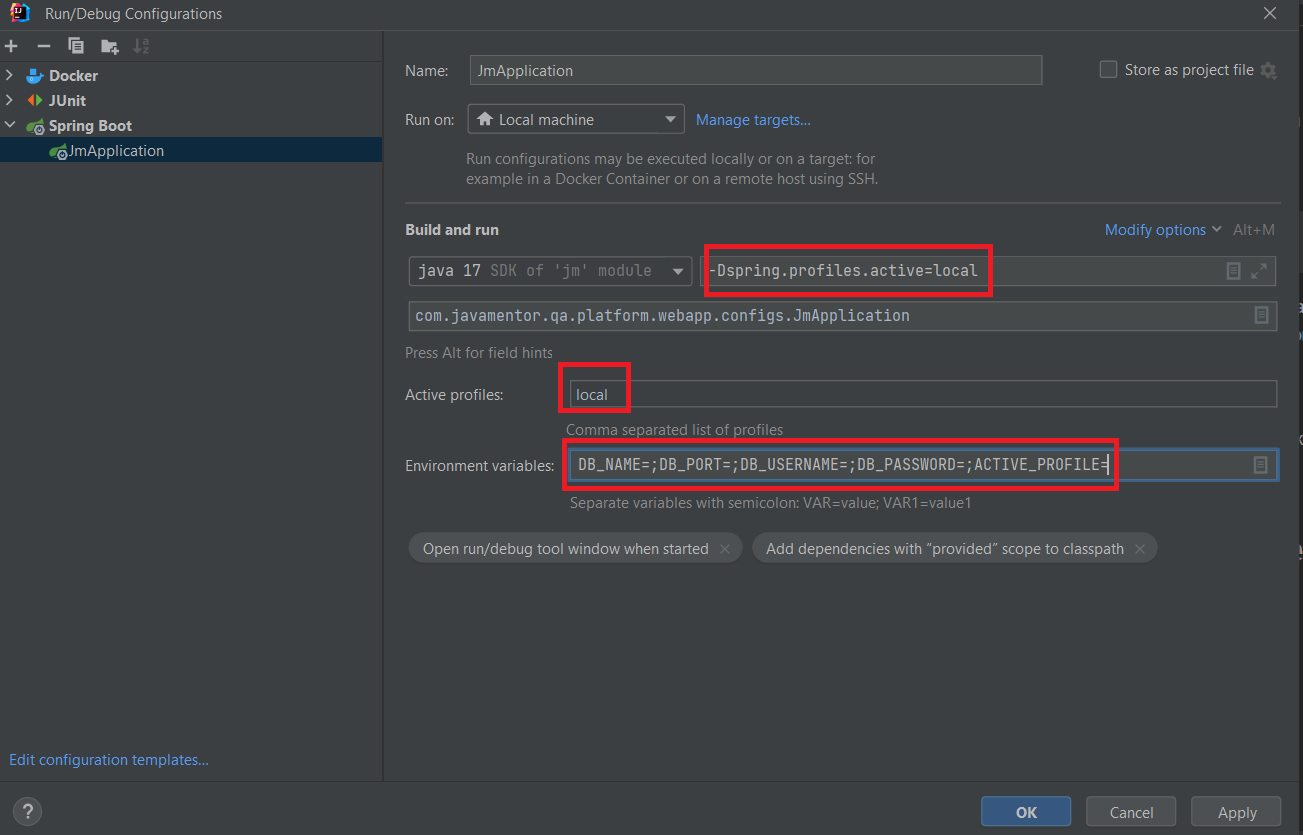
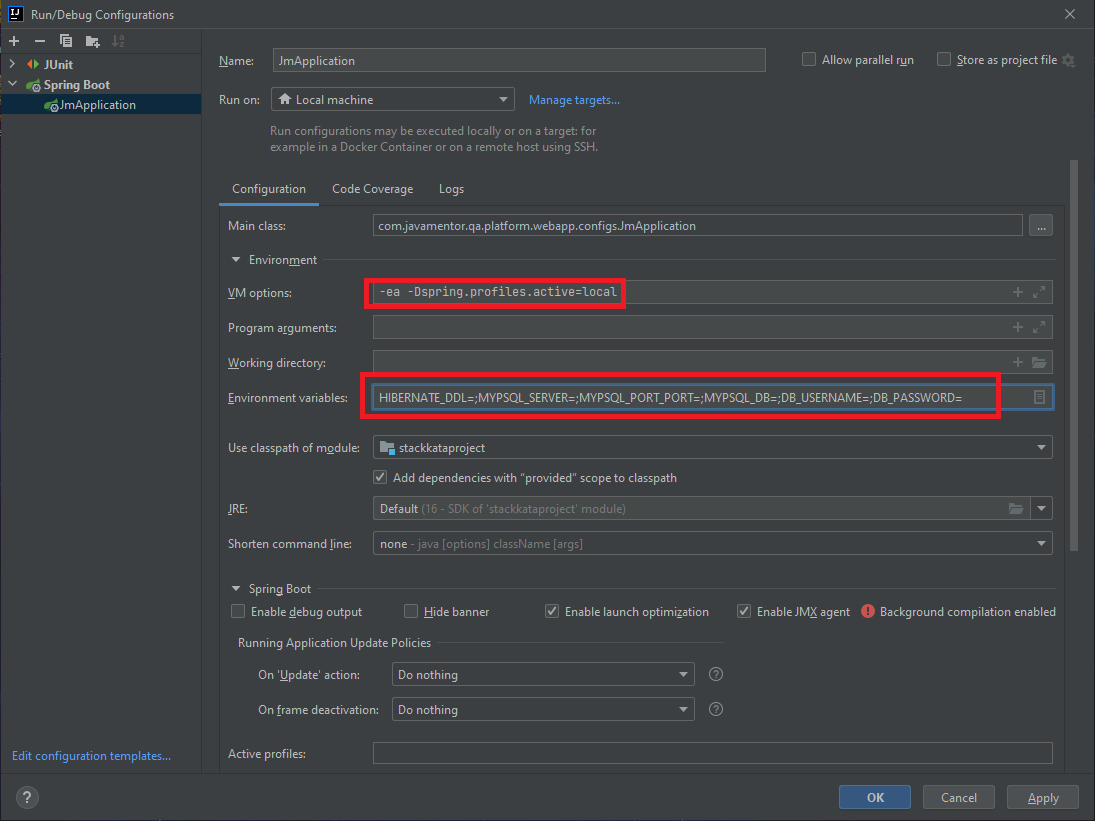
refactor

diff --git a/readme.md b/readme.md
@@ -511,25 +511,25 @@ docker compose stop
 
 ![](src/main/resources/static/images/OMG.PNG)
 
-Вписываем в VM Option `spring.profiles.active=local`
+Вписываем в VM Option `spring.profiles.active=local/dev` - выбираем профиль для запуска 
 
-Active profiles `local`
+Environment variables `HIBERNATE_DDL=;MYPSQL_SERVER=;MYPSQL_PORT_PORT=;MYPSQL_DB=;DB_USERNAME=;DB_PASSWORD=`
 
-Environment variables `DB_NAME=;DB_PORT=;DB_USERNAME=;DB_PASSWORD=;ACTIVE_PROFILE=`
 где
 
-`DB_NAME` - твоё название БД
+HIBERNATE_DDL - настройка ddl
 
-`DB_PORT` - твой порт
+MYPSQL_SERVER' - адрес сервера (по умолчанию localhost)
 
-`DB_USERNAME` - твой логин 
+MYPSQL_PORT - порт
 
-`DB_PASSWORD` - твой пароль
+MYPSQL_DB - название БД
 
-`ACTIVE_PROFILE` - активный профиль
+DB_USERNAME - твой логин 
 
+DB_PASSWORD - твой пароль
 
-
+-ea -Dspring.profiles.active= - выбери профиль
 
 
 
